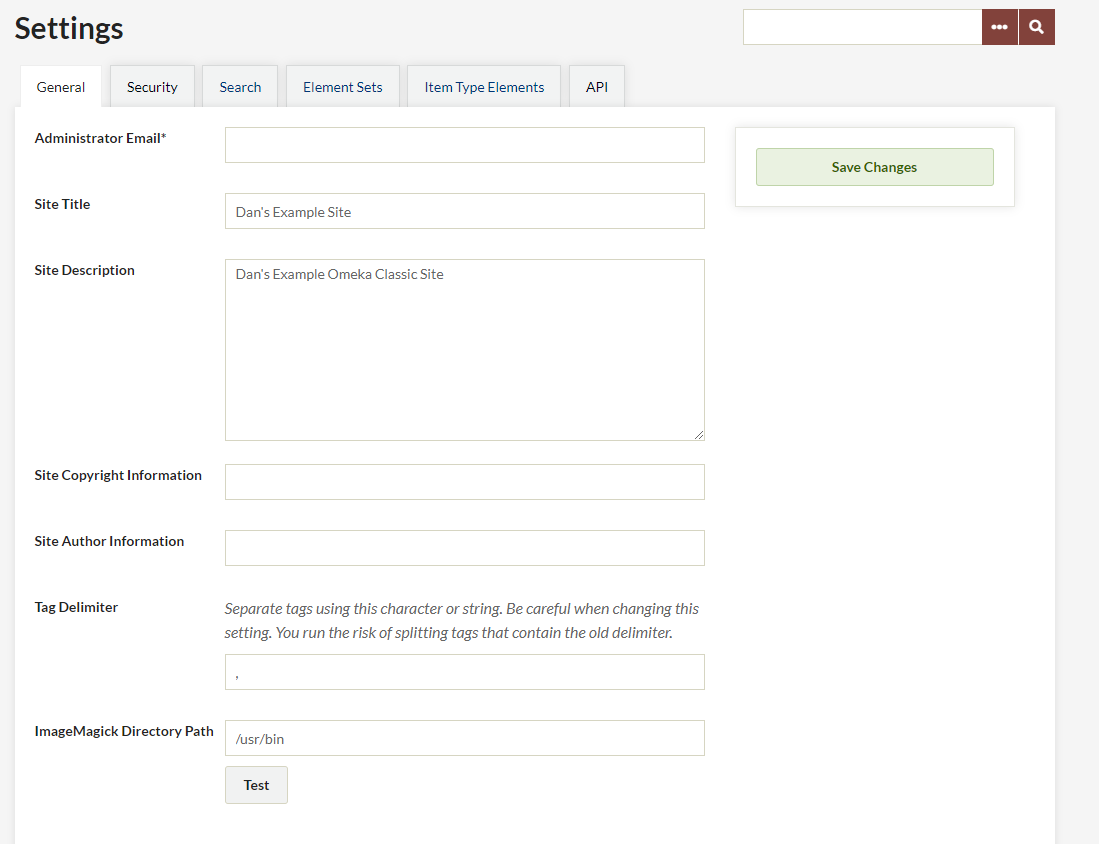
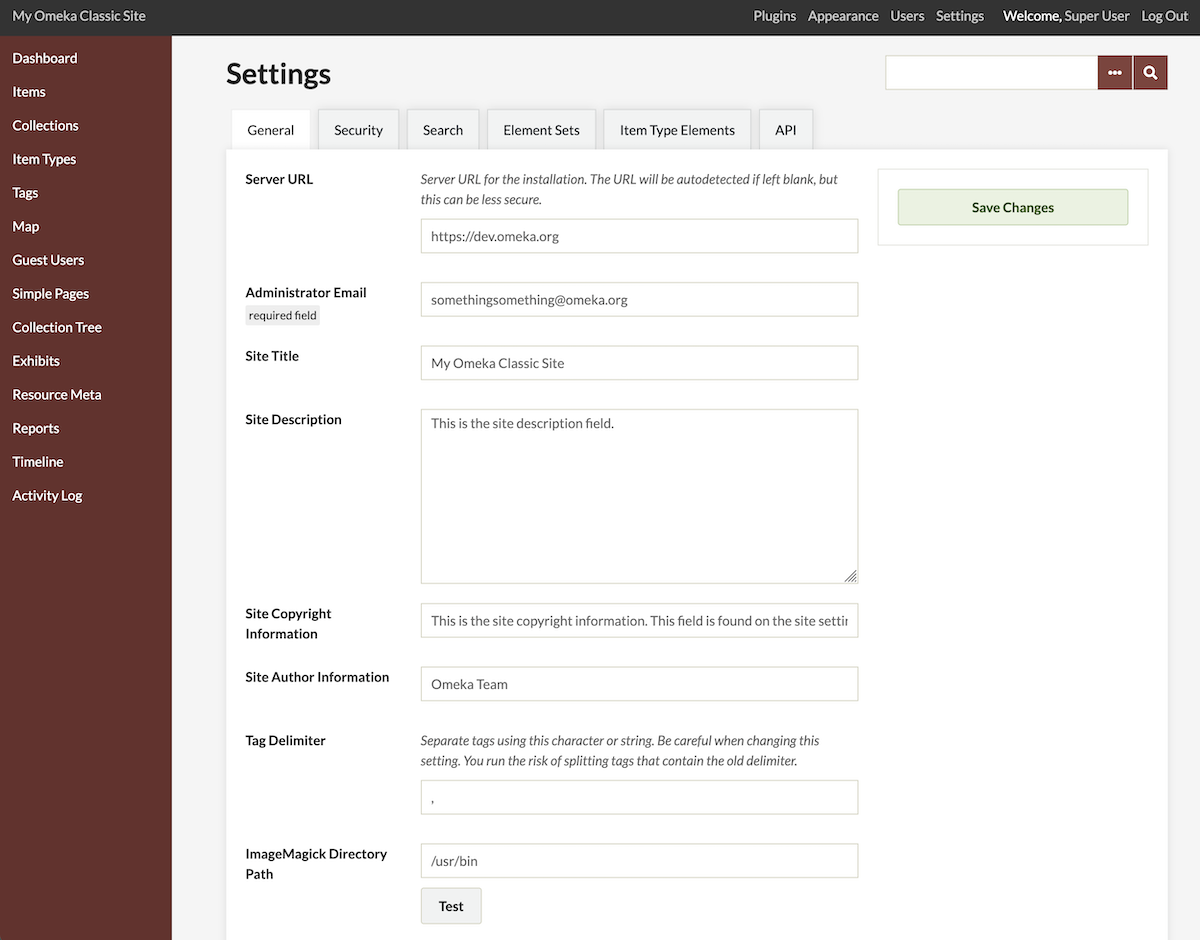
server url and emails

diff --git a/docs/Admin/Users.md b/docs/Admin/Users.md
@@ -1,10 +1,10 @@
 # Users
 
-An Omeka site can have one or many registered users. This can represent staff of your organization, with various responsibilities for your site and collections, or members of your community who are contributing knowledge and materials. Omeka offers four user roles with different access and powers on the site - you can assign people to any of these levels, depending on your needs. 
+An Omeka site can have one or many registered users. This can represent staff of your organization, with various responsibilities for your site and collections, or members of your community who are contributing knowledge and materials. Omeka Classic offers four user roles with different access and powers on the site - you can assign people to any of these levels, depending on your needs. 
 
-Plugins can add more roles, as well as more permissions to each role. For example, if you want to encourage comments on your items, you can add the Commenting plugin (which requires the Guest User plugin to be installed), which enables the collection form for users to submit their thoughts, and then assign members of your team, based on their user levels, to moderate whatever comments are submitted. 
+Plugins can add more roles, as well as more permissions to each role. For example, if you want to encourage comments on your items, you can add the Commenting plugin (which requires the Guest User plugin), which enables the collection form for users to submit their thoughts, and then assign members of your team, based on their user levels, to moderate whatever comments are submitted. 
 
-Logged-out users will not see a public login page anywhere on your public Omeka site; this page is accessed by going to `yourinstallation/admin` in a browser (it automatically resolves to `/admin/user/login`). You can manually add a login page or a link to the administrative interface to your public site if desired. 
+Logged-out users will not see a public login page anywhere on your public Omeka site; this page is accessed by going to `yourinstallation/admin` in a browser (it automatically resolves to `/admin/user/login`). You can install the Guest User plugint to add a "Login" and "Register" bar to the top of every screen. You can also manually add a login page, or a link to the administrative interface, to your public site if desired. 
 
 ## Manage users
 
@@ -21,6 +21,8 @@ The Browse Users screen shows the number of users, as well as the username, disp
 To sort users, simply click on the column heading by which you would like to sort. If you want to sort descending rather than ascending, click twice on the heading. The small paired arrows beside the column heading indicate whether the sort is ascending (top arrow darker) or descending (bottom arrow darker).
 
 You can search users by username, display name, or email address. Username and display name searches can include complete words or partial strings. Email searches only function with a complete email address.
+
+A user who attempts to login using their screen name can reset their password from the login page. The reset link is sent to the email address associated with the username. The link expires after 24 hours. No administrative intervention is required for a user to reset their password. 
 
 User levels and access
 ------------------------------------------------------------
@@ -75,7 +77,7 @@ To add a user, select the green "Add a User" button in the upper left hand corne
 ![Add user form](../doc_files/Usersaddnew.png "Add user form")
 
 -   Fill in the fields for the new user. Assign a role to the user, and click the green "Add User" button to save the page. 
--   The new user will receive an email at the address you provide with their username and a link that takes them to a form to create a password. Until the new user activates his/her account, an "Inactive" status appears after the username in the main Users list.
+-   The new user will receive an email at the address you provide with their username and a link that takes them to a form to create a password. Until the new user activates his/her account, an "Inactive" status appears after the username in the main Users list. Email links expire after 24 hours.
 -   To edit user information, including changing passwords, Super and Admin users may click on the "Edit" button below the username.
 
 Edit users

diff --git a/docs/Admin/Settings/index.md b/docs/Admin/Settings/index.md
@@ -9,7 +9,8 @@ In the "General" Settings tab, you may edit the fields you filled in when you in
 
 The fields are as follows:
 
--   **Administrator Email**: Address entered will send emails to new users, when created. This address will be where emails appear to be from, in any administrative emails sent from the page. (This field is required)
+-   **Server URL**: Enter in the server URL, used for creating absolute links. The URL will be autodetected if left blank, but this can be less secure. 
+-   **Administrator Email**: Address entered will send emails to new users, when created. This address will be where emails appear to be from, in any administrative emails sent from the page. (This field is required.) Note that the password reset email links (and activation links) will (as of Classic version 3.2.2) expire in 24 hours after they are sent.
     - Some hosting providers may require this email to match your domain (`you@yoursite.org`).
 -   **Site Title**: Appears as the name of your site on the homepage.
 -   **Site Description**: Descriptive text entered here appears in the website's `head` tags, but is not published on the homepage. This may be displayed when your site comes up in search-engine results. 
